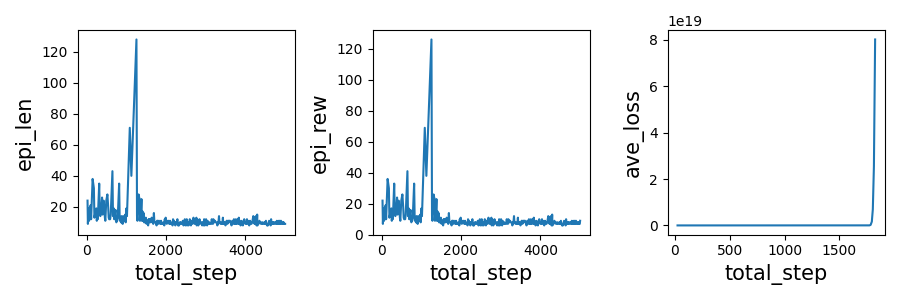
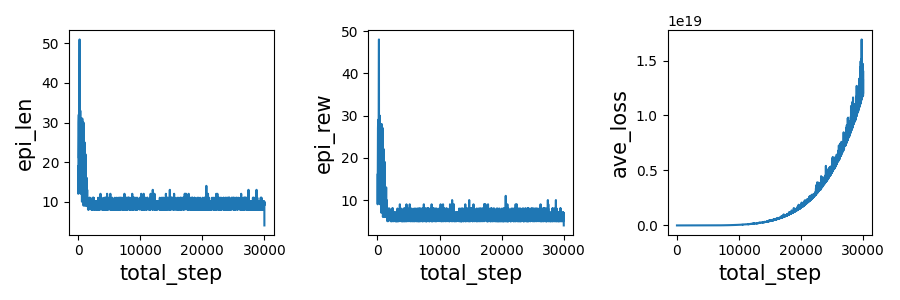
commit

diff --git a/dqn.py b/dqn.py
@@ -24,7 +24,7 @@ class DQN:
     :param eps_change_length: (int) The number of episodes that is taken to change epsilon.
     """
     
-    def __init__(self, env, window_size=12, replay_buffer_size=5000, replay_batch_size=128, n_replay_epoch=1, learning_starts=1000, learning_rate=0.0025, gamma=0.99, initial_eps=1.0, final_eps=0.1, eps_change_length=1000, load_Qfunc=False, Qfunc_path=None):
+    def __init__(self, env, window_size=12, replay_buffer_size=5000, replay_batch_size=32, n_replay_epoch=1, learning_starts=1000, learning_rate=0.01, gamma=0.99, initial_eps=1.0, final_eps=0.01, eps_change_length=1000, load_Qfunc=False, Qfunc_path=None):
         """
         Environment
         """
@@ -67,9 +67,9 @@ class DQN:
         #series_input = Input(shape=(self._window_size, 1), name='series_data')
         #series_net = LSTM(64, return_sequences=True)(series_input)
         #series_net = LSTM(32, return_sequences=False)(series_net)
-        series_net = Dense(64, activation='relu')(series_input)
-        series_net = Dense(32, activation='relu')(series_net)
-        series_net = Dense(16, activation='relu')(series_net)
+        series_net = Dense(16, activation='relu')(series_input)
+        #series_net = Dense(32, activation='relu')(series_net)
+        #series_net = Dense(16, activation='relu')(series_net)
         series_net = Dense(16, activation='relu')(series_net)
         series_output = Dense(self._n_action, activation='linear')(series_net)
 
@@ -92,7 +92,9 @@ class DQN:
                 # proceed environment
                 next_obs, reward, done, _ = self._env.step(action)
                 if done:
-                    reward = -1
+                    reward = -2
+                else:
+                    reward = 1
                 next_obs = next_obs.reshape(1, -1, 1)
                 # store experience
                 self._replay_buffer.append( np.array([obs[0], action, reward, next_obs[0]], dtype=object) )

diff --git a/debug.py b/debug.py
@@ -11,11 +11,11 @@ def main():
             env=env, 
             window_size=4,
             eps_change_length=100,
-            n_replay_epoch=4,
+            n_replay_epoch=1,
             initial_eps=1.0
             )
     print('Success to construct')
-    history = agent.learn(total_timesteps=5000)
+    history = agent.learn(total_timesteps=30000)
     print(len(agent._replay_buffer))
 
     fig, ax = plt.subplots(1, 3, figsize=(9, 3), tight_layout=True)
